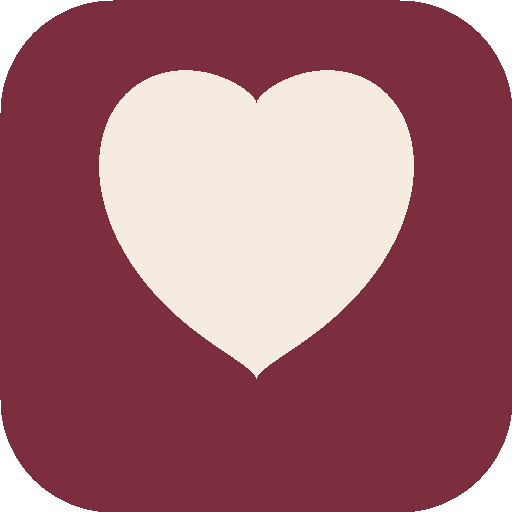
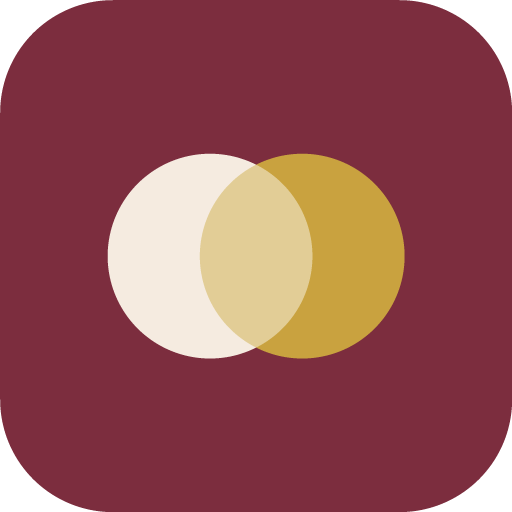
design: 앱 아이콘을 '교집합'(겹친 두 원) 컨셉으로 교체
- 앱의 매칭 원리(서로의 3순위 교집합)를 그대로 형상화
- 4배 슈퍼샘플링 다운샘플로 곡선 안티에일리어싱 적용
- gen_icon.js를 해당 컨셉 생성기로 정리(후보 스크립트 제거)

Changed region(s): [[0.1875, 0.125, 0.8125, 0.75]]

diff --git a/scripts/gen_icon.js b/scripts/gen_icon.js
@@ -1,45 +1,81 @@
-// 앱 아이콘 생성기(1회용). 와인색 라운드 사각 배경 + 크림색 하트.
+// 앱 아이콘 생성기 — '교집합' 컨셉(겹친 두 원 = 상호 3순위 교집합 매칭).
+// 4배 슈퍼샘플링으로 다운샘플해 곡선을 부드럽게(안티에일리어싱) 만든다.
+// 실행: node scripts/gen_icon.js  → public/icon-192.png, icon-512.png
 const fs = require("fs");
 const path = require("path");
 const { PNG } = require("pngjs");
 
-const WINE = [124, 45, 62]; // #7c2d3e
-const CREAM = [245, 235, 224]; // 살짝 크림
-const BG = WINE;
+const PALETTE = {
+  0: [0, 0, 0, 0], // 투명(라운드 사각 밖)
+  1: [124, 45, 62, 255], // wine  배경
+  2: [245, 235, 224, 255], // cream 왼쪽 원
+  3: [201, 162, 63, 255], // gold  오른쪽 원
+  4: [226, 205, 150, 255], // blend 교집합
+};
+const F = 4; // 슈퍼샘플 배율
 
-function heartInside(cx, cy, x, y, s) {
-  // 정규화 좌표계에서의 하트 부등식 (범위 대략 [-1.3,1.3])
-  const nx = (x - cx) / s;
-  const ny = -(y - cy) / s;
-  const a = nx * nx + ny * ny - 1;
-  return a * a * a - nx * nx * ny * ny * ny <= 0;
+function set(buf, S, x, y, id) {
+  if (x < 0 || y < 0 || x >= S || y >= S) return;
+  const i = S * y + x;
+  if (buf[i] === 0) return; // 라운드 사각 밖은 유지
+  buf[i] = id;
 }
 
-function gen(size, file) {
-  const png = new PNG({ width: size, height: size });
-  const r = size * 0.22; // 라운드 반경
-  for (let y = 0; y < size; y++) {
-    for (let x = 0; x < size; x++) {
-      const idx = (size * y + x) << 2;
-      // 라운드 사각 마스크
-      let inside = true;
-      const cornerX = x < r ? r - x : x > size - r ? x - (size - r) : 0;
-      const cornerY = y < r ? r - y : y > size - r ? y - (size - r) : 0;
-      if (cornerX > 0 && cornerY > 0 && cornerX * cornerX + cornerY * cornerY > r * r) inside = false;
-      let col = inside ? BG : [0, 0, 0];
-      const alpha = inside ? 255 : 0;
-      // 하트
-      if (inside && heartInside(size / 2, size * 0.47, x, y, size * 0.27)) col = CREAM;
-      png.data[idx] = col[0];
-      png.data[idx + 1] = col[1];
-      png.data[idx + 2] = col[2];
-      png.data[idx + 3] = alpha;
+// 겹친 두 원. 교집합은 blend 색으로 채운다.
+function draw(buf, S) {
+  const R = S * 0.2,
+    lx = S * 0.41,
+    rx = S * 0.59,
+    cy = S / 2;
+  for (let y = Math.floor(cy - R); y <= Math.ceil(cy + R); y++)
+    for (let x = Math.floor(lx - R); x <= Math.ceil(rx + R); x++) {
+      const inL = Math.hypot(x - lx, y - cy) <= R;
+      const inR = Math.hypot(x - rx, y - cy) <= R;
+      if (inL && inR) set(buf, S, x, y, 4);
+      else if (inL) set(buf, S, x, y, 2);
+      else if (inR) set(buf, S, x, y, 3);
     }
-  }
-  const out = path.join(__dirname, "..", "public", file);
-  fs.writeFileSync(out, PNG.sync.write(png));
+}
+
+function render(size) {
+  const S = size * F;
+  const buf = new Uint8Array(S * S);
+  const r = S * 0.22; // 라운드 반경
+  for (let y = 0; y < S; y++)
+    for (let x = 0; x < S; x++) {
+      const cx = x < r ? r - x : x > S - r ? x - (S - r) : 0;
+      const cy = y < r ? r - y : y > S - r ? y - (S - r) : 0;
+      buf[S * y + x] = cx > 0 && cy > 0 && cx * cx + cy * cy > r * r ? 0 : 1;
+    }
+  draw(buf, S);
+
+  const png = new PNG({ width: size, height: size });
+  for (let y = 0; y < size; y++)
+    for (let x = 0; x < size; x++) {
+      let R = 0, G = 0, B = 0, A = 0;
+      for (let sy = 0; sy < F; sy++)
+        for (let sx = 0; sx < F; sx++) {
+          const c = PALETTE[buf[S * (y * F + sy) + (x * F + sx)]];
+          const a = c[3] / 255;
+          R += c[0] * a;
+          G += c[1] * a;
+          B += c[2] * a;
+          A += c[3];
+        }
+      const n = F * F;
+      const aAvg = A / n;
+      const norm = aAvg > 0 ? 255 / aAvg : 0; // 알파 프리멀티플라이 해제
+      const idx = (size * y + x) << 2;
+      png.data[idx] = Math.round((R / n) * norm);
+      png.data[idx + 1] = Math.round((G / n) * norm);
+      png.data[idx + 2] = Math.round((B / n) * norm);
+      png.data[idx + 3] = Math.round(aAvg);
+    }
+  return png;
+}
+
+for (const size of [192, 512]) {
+  const out = path.join(__dirname, "..", "public", `icon-${size}.png`);
+  fs.writeFileSync(out, PNG.sync.write(render(size)));
   console.log("wrote", out);
 }
-
-gen(192, "icon-192.png");
-gen(512, "icon-512.png");
